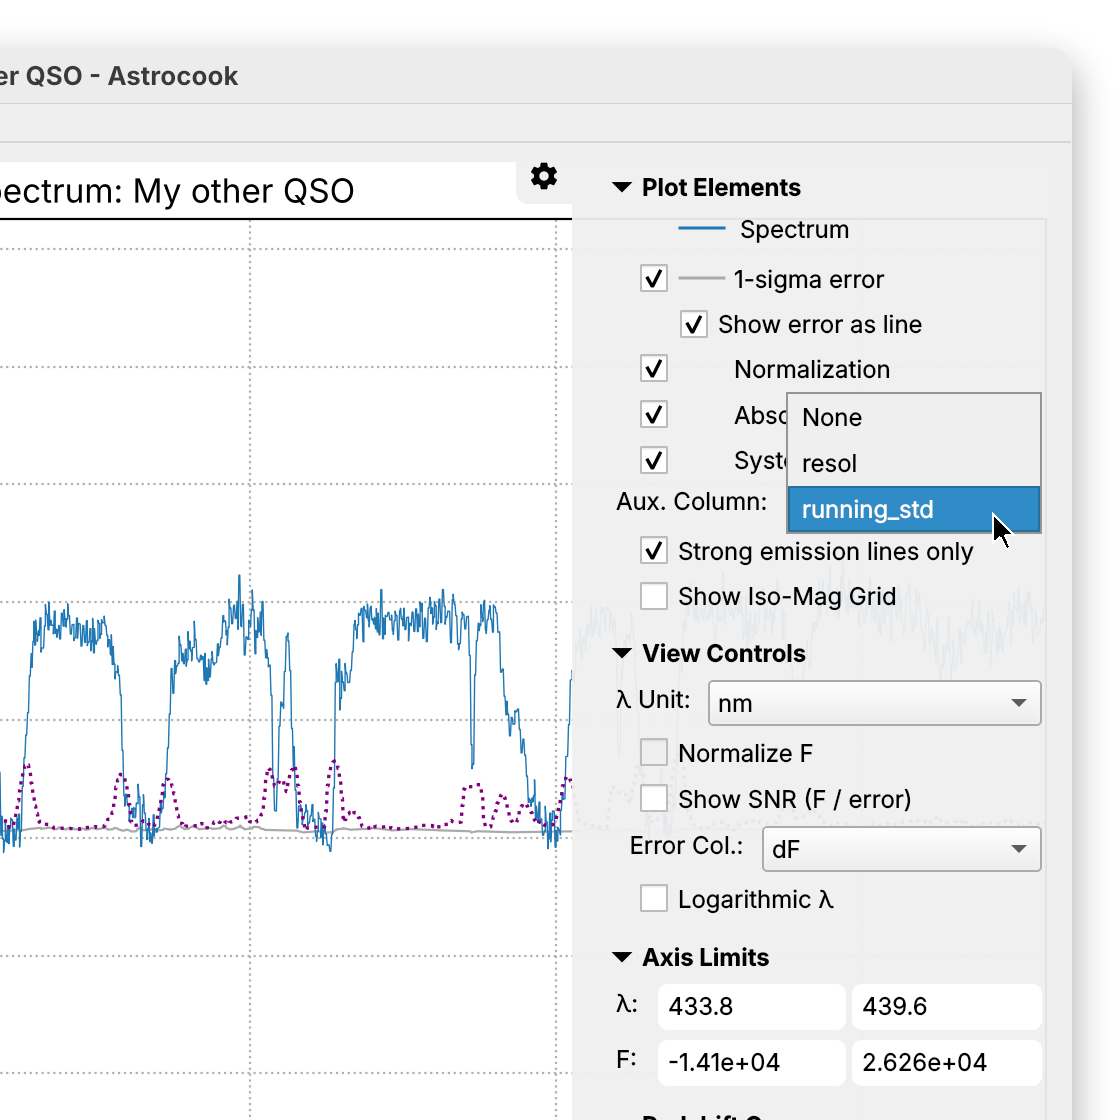
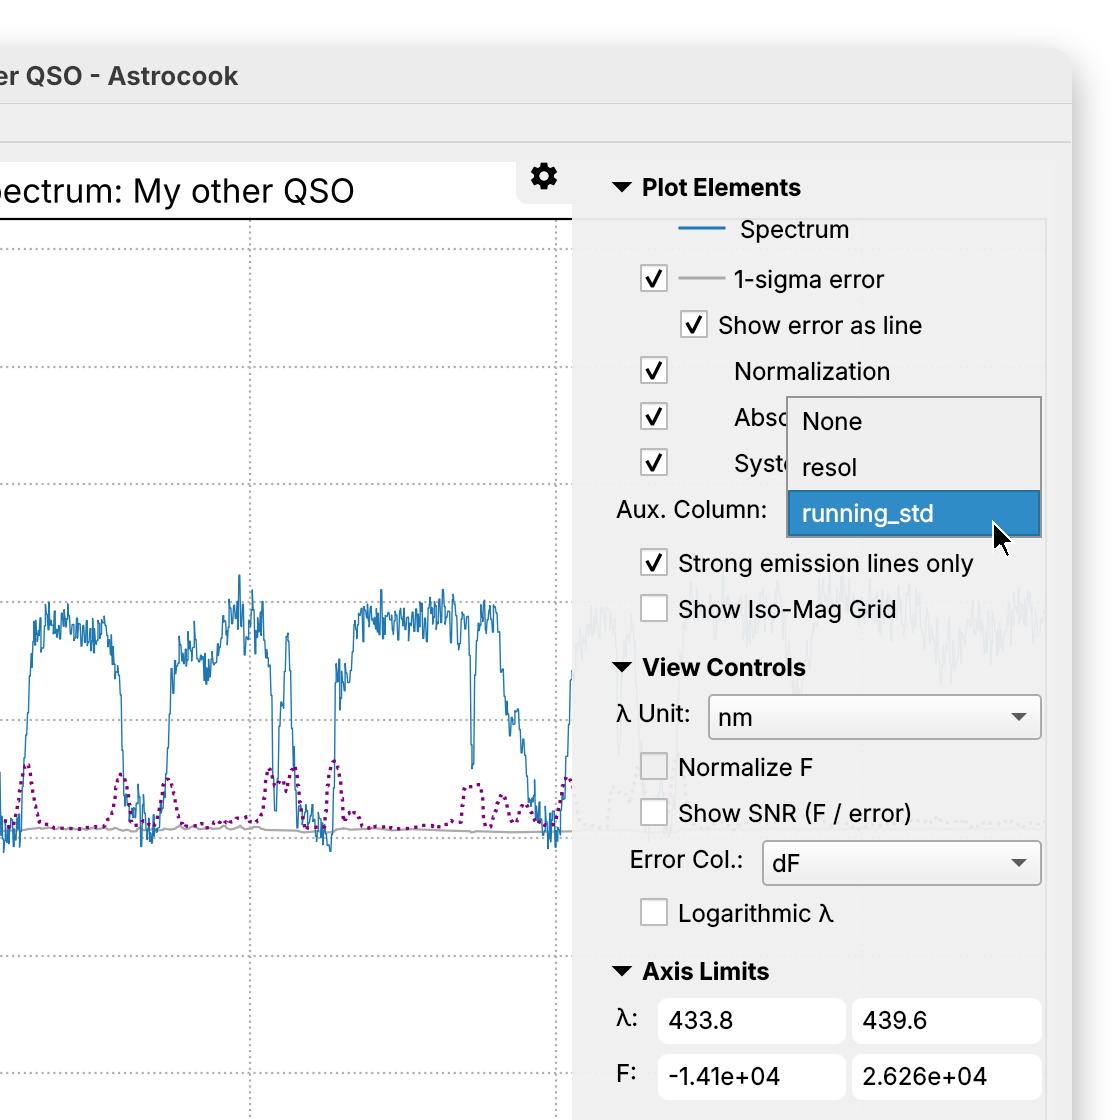
Screenshots: the cleaned spectra of the tutorials
The two spectra for the screenshots are rebuilt with only the spectrum
columns (x, xmin, xmax, y, dy, resol) and a minimal header (ORIGIN, OBJECT
set to the session name): no coordinates, dates, archive identifiers,
log or earlier analysis. The data are unchanged; the images are
regenerated from them (only the object shown by Set session properties
changes).

Claude-Session: https://claude.ai/code/session_01UnXXVvDAhFsRriJQ1xfQEG

Changed region(s): [[0.5312, 0.2812, 0.9375, 0.9688], [0.75, 0.875, 0.9062, 0.9688], [0.5312, 0.9375, 0.5625, 0.9688]]

diff --git a/docs/screenshots/make_screenshots.py b/docs/screenshots/make_screenshots.py
@@ -571,7 +571,7 @@ def editing_set_properties(s: Studio):
     w = s.new_window("My QSO")
     s.limits(x=(440, 560))
     dialog = s.recipe_dialog("edit", "set_properties",
-                             {"name": "My QSO", "object": "Q0142-100A", "z_em": "2.730",
+                             {"name": "My QSO", "object": "My QSO", "z_em": "2.730",
                               "resol": str(RESOL)},
                              focus="resol")
     field = dialog.input_widgets["resol"]

diff --git a/docs/screenshots/README.md b/docs/screenshots/README.md
@@ -14,7 +14,9 @@ python docs/screenshots/make_screenshots.py --list
 ## Data
 
 Two spectra, anonymised as "My QSO" and "My other QSO" (provided by Guido,
-October 2026), are kept out of the repository as assets of the GitHub
+October 2026; rebuilt with only the spectrum columns, x to resol, and a
+minimal header: no coordinates, dates, archive identifiers or earlier
+analysis), are kept out of the repository as assets of the GitHub
 pre-release `data-docs-2026`: `My_QSO.acs2` and `My_other_QSO.acs2`.
 `--download` fetches the missing ones into `docs/screenshots/data/`
 (ignored by git); `--data` reads them from another folder. The session takes
